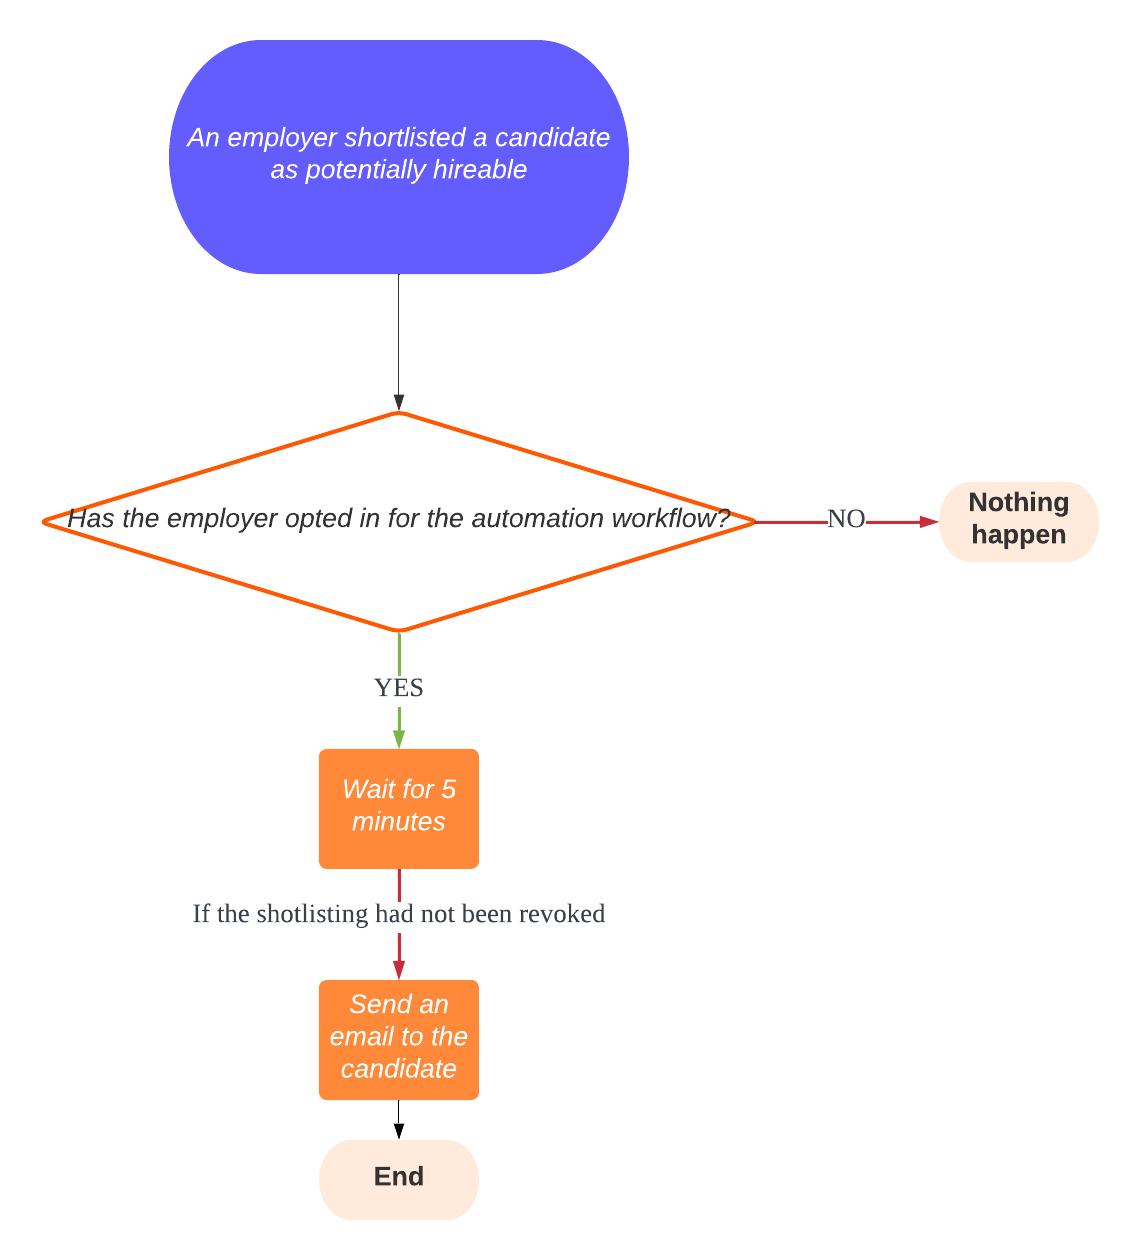
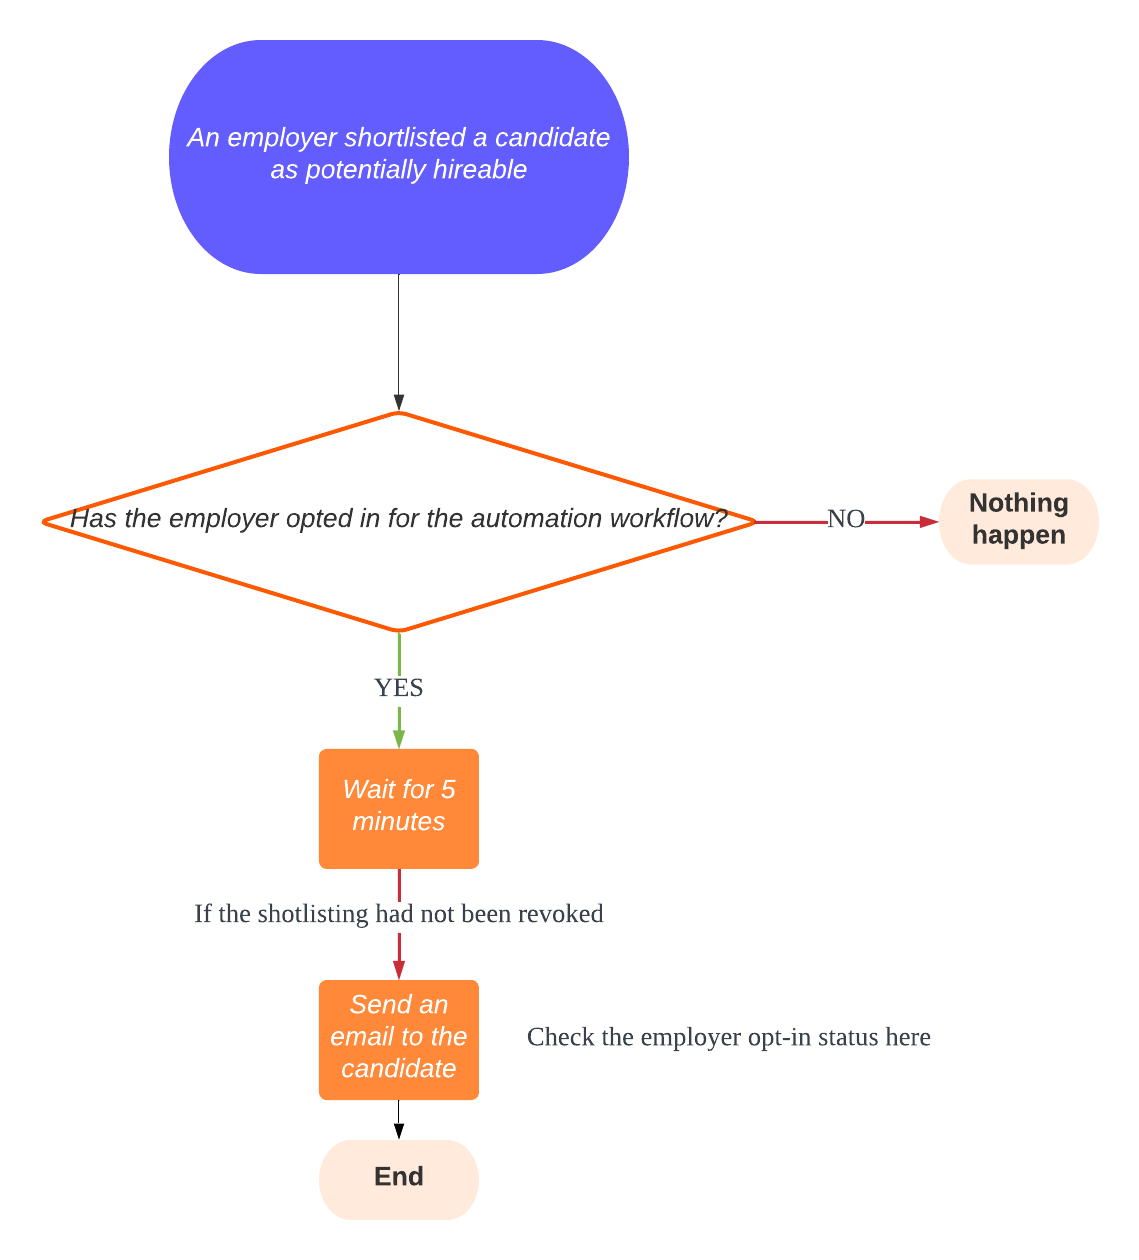
add opt-in check in sendEmail state

diff --git a/src/main/java/io/iworkflow/workflow/shortlistcandidates/ShortlistWorkflow.java b/src/main/java/io/iworkflow/workflow/shortlistcandidates/ShortlistWorkflow.java
@@ -1,5 +1,6 @@
 package io.iworkflow.workflow.shortlistcandidates;
 
+import io.iworkflow.core.Client;
 import io.iworkflow.core.Context;
 import io.iworkflow.core.ObjectWorkflow;
 import io.iworkflow.core.RPC;
@@ -22,7 +23,9 @@ import io.iworkflow.gen.models.ChannelRequestStatus;
 import io.iworkflow.gen.models.SearchAttributeValueType;
 import io.iworkflow.workflow.MyDependencyService;
 import io.iworkflow.workflow.shortlistcandidates.model.ShortlistInput;
+import io.iworkflow.workflow.shortlistcandidates.utils.WorkflowUtil;
 import org.springframework.beans.factory.annotation.Autowired;
+import org.springframework.context.annotation.Lazy;
 import org.springframework.stereotype.Component;
 
 import java.time.Duration;
@@ -34,6 +37,10 @@ public class ShortlistWorkflow implements ObjectWorkflow {
 
     @Autowired
     private MyDependencyService myService;
+
+    @Lazy // Lazy is needed to resolve the circular dependency when using the client in a workflow
+    @Autowired
+    private Client client;
 
     public static final String SA_KEY_EMPLOYER_ID = "SHORTLIST_EmployerId";
     public static final String SA_KEY_CANDIDATE_ID = "SHORTLIST_CandidateId";
@@ -47,7 +54,7 @@ public class ShortlistWorkflow implements ObjectWorkflow {
         // If the employer revokes the shortlist within the 5-minute timeframe, we will not send the email.
         return Arrays.asList(
                 StateDef.startingState(new ShortlistState()),
-                StateDef.nonStartingState(new SendEmailState(myService))
+                StateDef.nonStartingState(new SendEmailState(myService, client))
         );
     }
 
@@ -93,9 +100,11 @@ class ShortlistState implements WorkflowState<ShortlistInput> {
 
 class SendEmailState implements WorkflowState<Void> {
     private MyDependencyService myService;
+    private Client client;
 
-    public SendEmailState(final MyDependencyService myService) {
+    public SendEmailState(final MyDependencyService myService, final Client client) {
         this.myService = myService;
+        this.client = client;
     }
 
     @Override
@@ -120,6 +129,13 @@ class SendEmailState implements WorkflowState<Void> {
         final SignalCommandResult revokeShortlistSignalResult = commandResults.getAllSignalCommandResults().get(0);
         if (revokeShortlistSignalResult.getSignalRequestStatusEnum() == ChannelRequestStatus.RECEIVED) {
             System.out.printf("Not sending the email to %s-%s because of revoking%n", employerId, candidateId);
+            return StateDecision.forceCompleteWorkflow();
+        }
+
+        // Check whether the employer is still in the opt-in status
+        final Boolean optedIn = WorkflowUtil.isOptedIn(client, employerId);
+        if (!optedIn) {
+            System.out.printf("Not sending the email to %s-%s because of not opted-in%n", employerId, candidateId);
             return StateDecision.forceCompleteWorkflow();
         }
 
